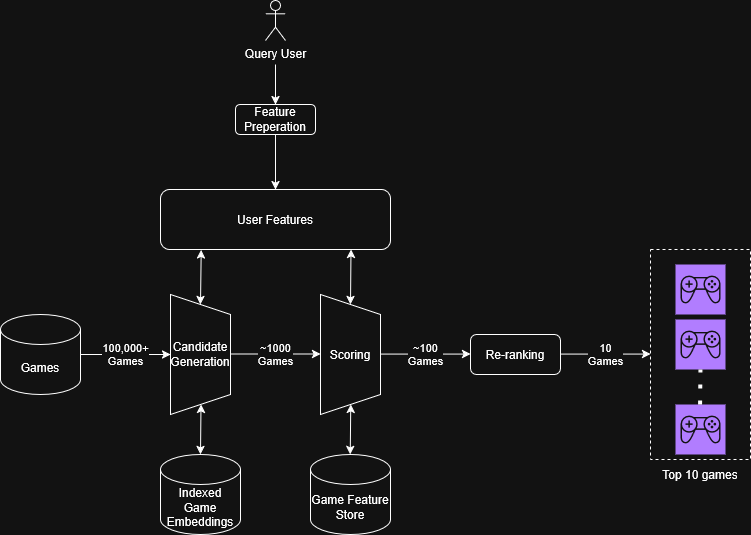
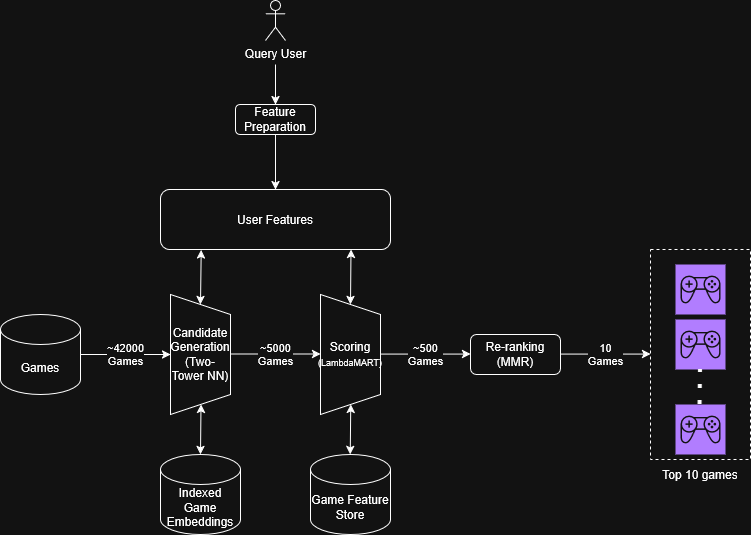
Update README to give an overview of the project

Changed region(s): [[0.1225, 0.5981, 0.3063, 0.7178], [0.6431, 0.628, 0.735, 0.6879], [0.4288, 0.628, 0.5206, 0.6879]]

diff --git a/README.md b/README.md
@@ -1,16 +1,62 @@
-# discovery-queue
-AI/ML Project.
+# Discovery Queue
 
-## Running with Docker
+**Discovery Queue** is an end-to-end Machine Learning Recommender System designed to provide personalized video game recommendations. Users are presented with a slate of games, interact with them to indicate preference, and receive continuously updated recommendations.
 
-For first time startup, run
+This personal project was built to explore the complexities of modern recommendation systems. Through researching industry standards, I implemented a two-stage architecture: a Two-Tower model for deep candidate generation and a Learning-to-Rank (LTR) model for downstream reranking, supported by vector search.
+
+*Note on Development: Generative AI was used throughout this project as a pair-programmer and tutor. It was instrumental in helping me research architectural concepts, optimize code, and understand concepts such as the practical trade-offs between relevance and diversity in recommendation systems. My focus was on deeply understanding the generated implementations to maximize my learning experience.*
+
+## Key Architectural Components
+
+![Prediction Pipeline Architecture](docs/design/DQ%20Prediction%20Pipeline.drawio.png)
+
+- **Two-Tower Neural Network**: A PyTorch-based model responsible for large-scale candidate generation. It produces dense embeddings for both users and game items, allowing for rapid candidate retrieval.
+- **Vector Database**: Utilizes `PostgreSQL` with the `pgvector` extension for efficient Approximate Nearest Neighbor (ANN) search over a catalog of 42,000+ items.
+- **Advanced Reranking Pipeline**: Implements a Learning-to-Rank (LTR) stage using `LightGBM LambdaMART`, paired with a Maximal Marginal Relevance (MMR) policy framework. This balances the raw relevance of recommendations with catalog diversity.
+- **Automated ML Pipeline**: Fully containerized via Docker Compose. A single command handles database initialization, embedding generation, synthetic training pair generation, model training, and metrics evaluation, before serving the frontend.
+
+## Performance Metrics
+
+The system's performance was evaluated by simulating various multi-faceted user personas (e.g., *ActionFanatic*, *StrategyPro*).
+
+- **Candidate Generation (Two-Tower)**:
+  - Effectively narrows down the candidate pool, consistently retrieving target items ranked within the **Top 7.2%** of the 42,000+ catalog.
+- **Final Slate Generation (LambdaMART + MMR)**:
+  - **Overall Session Hit Rate**: 66.7% (binary success rate for sessions).
+  - **Diversity Improvement**: Achieved a **+548.9% MMR Diversity Gain**.
+  - Retained strong Precision@10 metrics (as high as 86.7% for specific personas) while significantly diversifying the final recommendations presented to the user.
+
+## Technology Stack
+
+- **Machine Learning**: PyTorch, LightGBM, Scikit-Learn
+- **Data & Vector Store**: PostgreSQL, `pgvector`
+- **Backend & Serving**: Python, Flask, Pandas, NumPy
+- **Infrastructure**: Docker, Docker Compose
+
+## Running the Project
+
+### Prerequisites
+
+Before starting the pipeline, there are a few files intentionally excluded from version control that you must set up locally:
+
+1. **Dataset Download**: This project relies on the [Steam Games Dataset from Kaggle](https://www.kaggle.com/datasets/fronkongames/steam-games-dataset). Please download the dataset and place the extracted file into the `data/` directory (e.g., as `data/games.json`).
+2. **Database Secrets**: A `.secrets/` folder must be created in the root directory (alongside `data` and `src`) containing three files: `postgres_db`, `postgres_password`, and `postgres_user`. These text files should contain your desired credentials for setting up the PostgreSQL database.
+3. **Environment Variables**: An optional `.env` file can be placed in the project root if you need to override any specific local configurations.
+
+### Startup
+
+For first-time startup, run:
 ```powershell
 docker compose up --build
 ```
 in the `discovery-queue` folder.
 
-Note that a `.secrets` folder must be present alongside the `data` and `src`
-folders with a `postgres_db`, `postgres_password`, and `postgres_user` file present
-within it for proper functionality.
+The startup sequence automatically handles the entire pipeline: Database Setup -> Embedding Indexing -> Two-Tower Model Training -> LTR Reranker Training -> Evaluation Metrics Generation -> Web Server Initialization.
 
-Once the application is running, navigate to `http://127.0.0.1:5000/` to see the webpage.
+**Important Note**: Because the initial startup includes full data ingestion, embedding indexing, and training multiple machine learning models from scratch, the first run can take a significant amount of time. Please be patient and allow the Docker container to complete the automated ML pipeline.
+
+Once the application is running, navigate to `http://127.0.0.1:5000/` to test the recommender system.
+
+## Content Disclaimer
+
+This project utilizes real-world dataset metadata to train the recommendation models and populate the frontend. As a result, some of the generated game recommendations, cover art, and descriptions may contain mature themes or content that is inappropriate for all audiences.